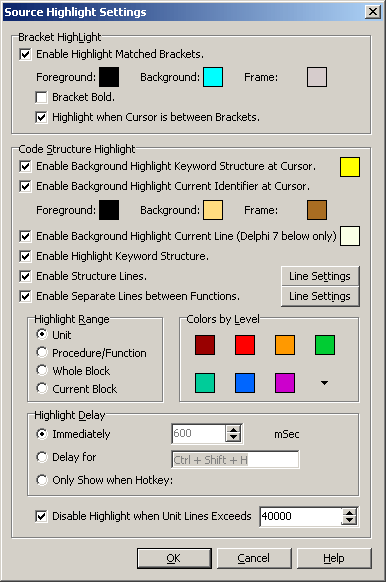
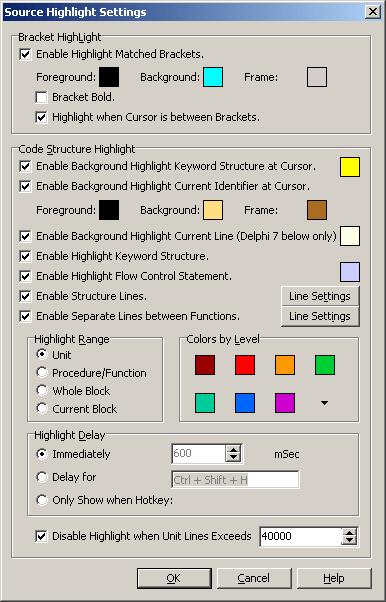
* [Source Highlight] Update Help for "Flow Control" Highlight background function.

Changed region(s): [[0.0, 0.0, 0.9948, 0.9897], [0.6218, 0.1237, 0.715, 0.1546], [0.8083, 0.0928, 0.8394, 0.1546]]

diff --git a/cnwizards/Help/CnWizards_ENU/ideenhance/srchighlight.htm b/cnwizards/Help/CnWizards_ENU/ideenhance/srchighlight.htm
@@ -70,6 +70,9 @@ Brackets ( ), [ ], { } are supported. But { } only valid in C/C++. Code Structur
 <p class="text"><b>Enable Highlight Keyword Structure</b>: Whether Enable Keyword Structure Highlight in IDE Editor.</p>
   </li>
   <li>
+<p class="text"><b>Enable Highlight Flow Control Statement</b>: Whether Enable Highlight Background for Flow Control Statement in Pascal and C/C++, including Exit/Abort/Break/Continue/raise/goto in Pascal and return/goto/break/continue/exit/abort in C/C++.</p>
+  </li>
+  <li>
 <p class="text"><b>Enable Structure Lines</b>: Whether Enable Lines Structure Highlight in IDE Editor.</p>
   </li>
   <li>
